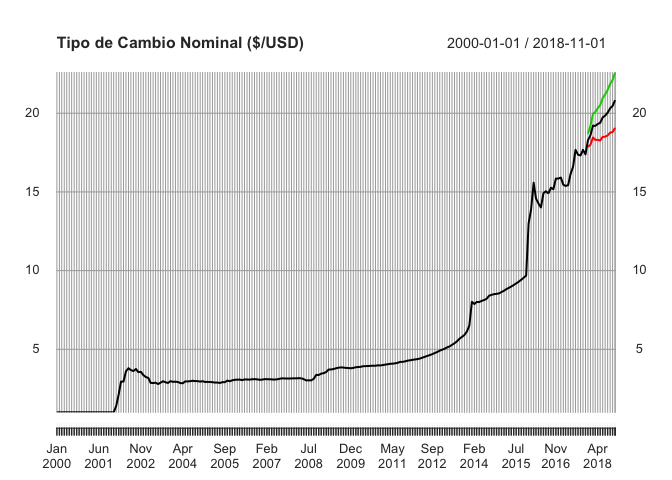
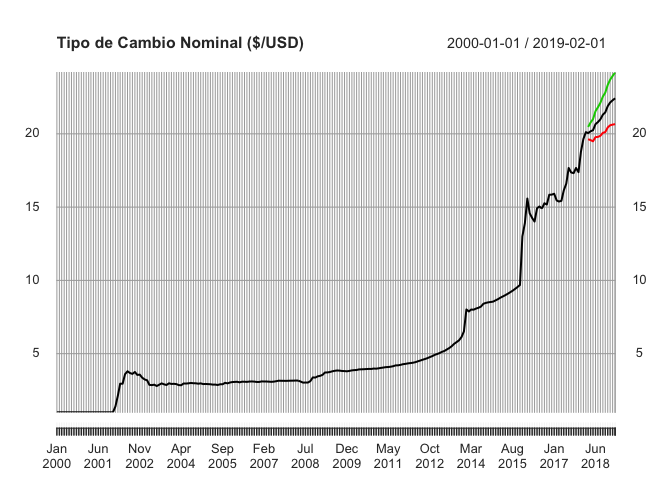
v 0.5.1 incorpora captura básica de errores de conexión y de la API

diff --git a/README.md b/README.md
@@ -38,9 +38,9 @@ library(PortalHacienda)
 #> 
 #>     as.Date, as.Date.numeric
 #> =============================================================================
-#> Acceso API Portal Datos Hacienda - v 0.5.0 - 12-2017 por F. García Díaz
+#> Acceso API Portal Datos Hacienda - v 0.5.1 - 12-2017 por F. García Díaz
 #> Última actualización de la base de series incluída en el paquete: 0 días
-#> Series en la base de meta-datos: 14341
+#> Series en la base de meta-datos: 18308
 # Buscar las series de tipo de cambio
 Series_TCN <- Search("tipo de cambio")         
 # mostrar las primeras series encontradas
@@ -208,7 +208,7 @@ un plot sencillo.
 
 TCN <- Forecast(Get("174.1_T_DE_CATES_0_0_32" , start_date = 2000), 12)       
 #> [1] "Cargada/s las series: 174.1_T_DE_CATES_0_0_32. Descripción: Tipo de Cambio En $ equivalentes"
-#> [1] "Cargados 215 datos, desde 2000-01-01 hasta 2017-11-01 Periodicidad estimada: monthly"
+#> [1] "Cargados 218 datos, desde 2000-01-01 hasta 2018-02-01 Periodicidad estimada: monthly"
 #> [1] "Serie extendida 12 períodos, usando el modelo auto detectado: ARIMA(0,2,1)(0,0,2)[12]"
 # Mostrar resultado
 plot(TCN , main = "Tipo de Cambio Nominal ($/USD)")
@@ -222,7 +222,7 @@ comas…
 ``` r
 plot(Get("6.2_AGCS_2004_T_39,6.2_IM_2004_T_23,6.2_C_2004_T_12") , legend.loc = "topleft" , main = "VAB sectorial ($ de 2004)")
 #> [1] "Cargada/s las series: c(\"6.2_AGCS_2004_T_39\", \"6.2_C_2004_T_12\", \"6.2_IM_2004_T_23\"). Descripción: c(\"Valor agregado bruto trimestral a precios de productor, de agricultura ganaderia caza y silvicultura en pesos de 2004\", \"Valor agregado bruto trimestral a precios de productor de construcción en pesos de 2004\", \"Valor agregado bruto trimestral a precios de productor de industria manufacturera en pesos de 2004\")"
-#> [1] "Cargados 165 datos, desde 2004-01-01 hasta 2017-07-01 Periodicidad estimada: quarterly"
+#> [1] "Cargados 168 datos, desde 2004-01-01 hasta 2017-10-01 Periodicidad estimada: quarterly"
 ```
 
 ![](README-example3-1.png)<!-- -->
@@ -233,7 +233,7 @@ utilizar la variante vectorial de `Forecast`, que es `vForecast`:
 ``` r
 TCN <- vForecast(Get("120.1_PCE_1993_0_24,120.1_ED1_1993_0_26"),12)
 #> [1] "Cargada/s las series: c(\"120.1_ED1_1993_0_26\", \"120.1_PCE_1993_0_24\"). Descripción: c(\"Exportaciones de bienes en millones de dólares de 1993\", \"Poder de compra de las exportaciones de bienes en millones de dólares de 1993\")"
-#> [1] "Cargados 62 datos, desde 1986-01-01 hasta 2016-01-01 Periodicidad estimada: yearly"
+#> [1] "Cargados 64 datos, desde 1986-01-01 hasta 2017-01-01 Periodicidad estimada: yearly"
 #> [1] "Serie extendida 12 períodos, usando modelo auto detectado"
 ```
 
@@ -248,5 +248,6 @@ de **1000** datos (dado el límite actual de la API)
 # Estado del Proyecto
 
   - \[x\] Funcionalidad básica
-  - \[ \] Captura de errores de uso o en la devolución de datos
+  - \[x\] Captura de errores de uso o en la devolución de datos (básico)
+  - \[ \] Captura de errores avanzada
   - \[ \] Otros
